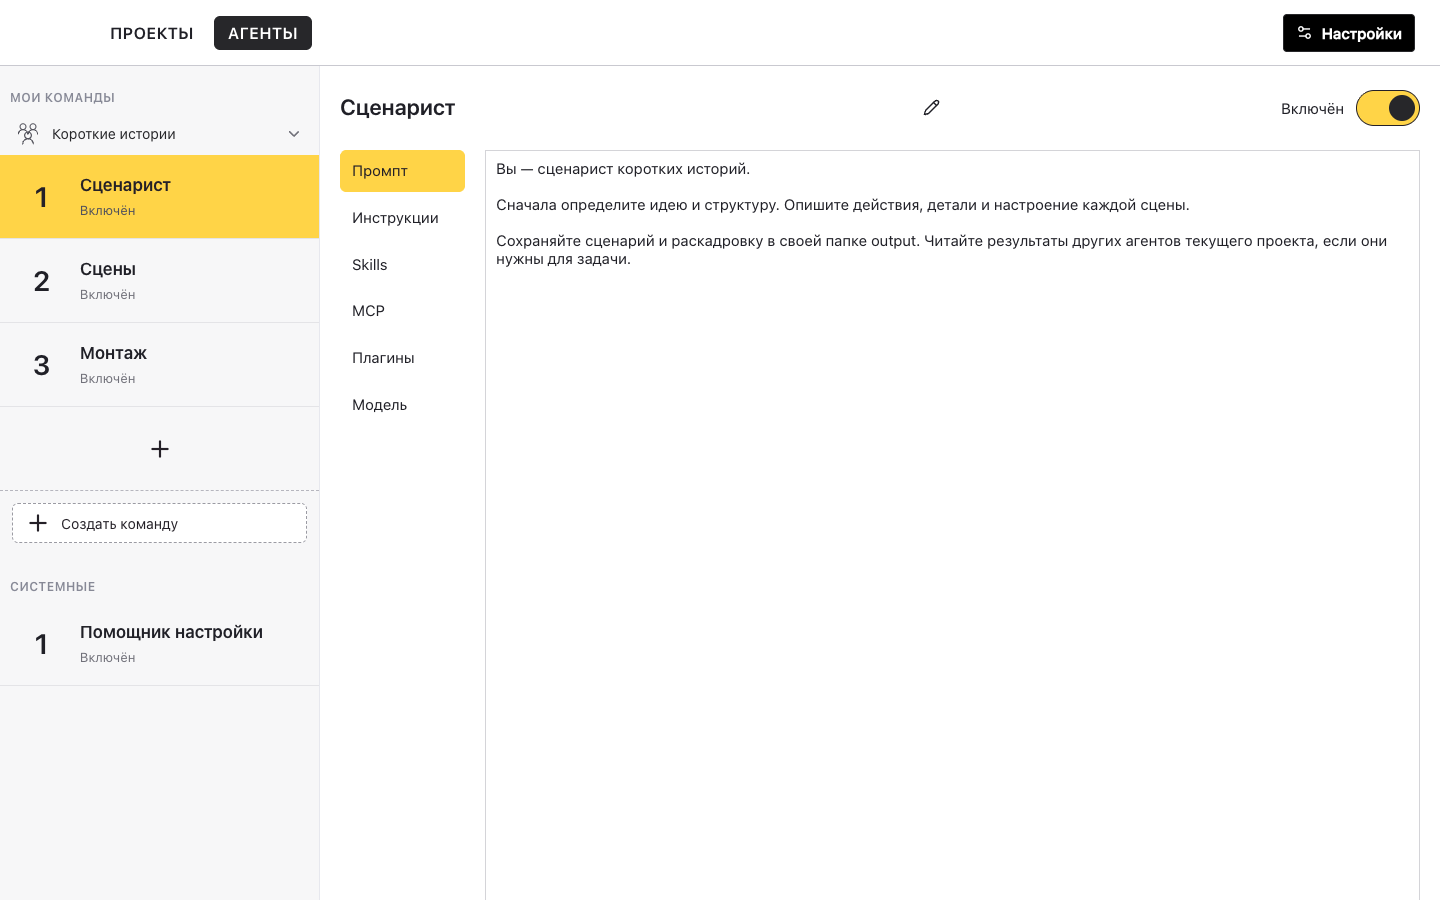
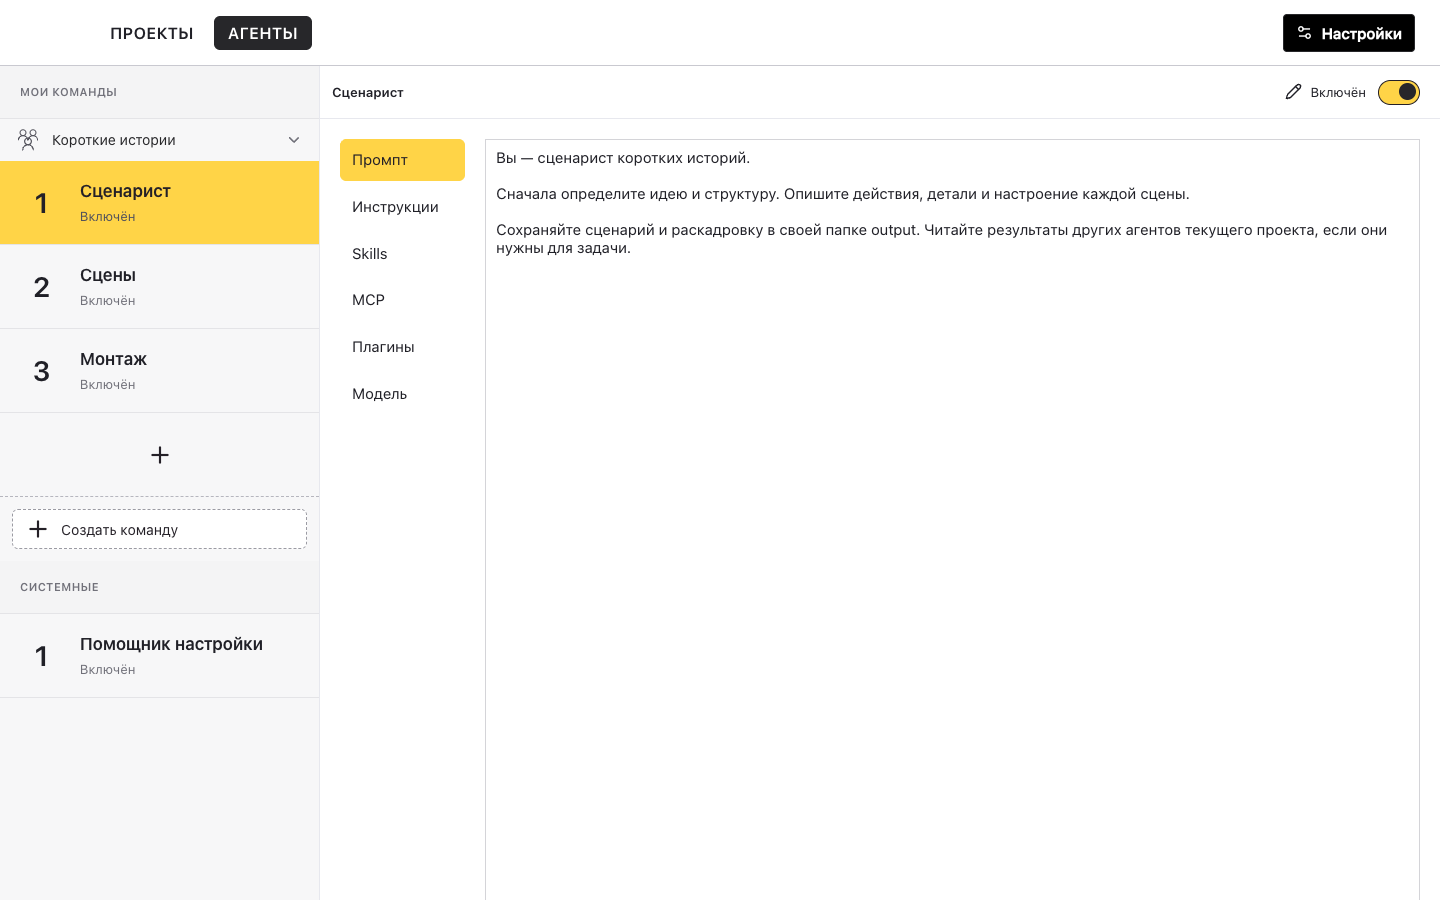
docs: publish verified Mac alpha.80; leave installation awaiting user consent

diff --git a/README.md b/README.md
@@ -8,7 +8,7 @@
 
 <a href="LICENSE"><img src="https://img.shields.io/badge/open_source-MIT-FFD83D?style=flat-square&labelColor=252525" alt="Open source · MIT" /></a> <img src="https://img.shields.io/badge/%D1%81%D1%82%D0%B0%D1%82%D1%83%D1%81-alpha-FFD83D?style=flat-square&labelColor=252525" alt="Статус: alpha" /> <img src="https://img.shields.io/badge/%D0%BF%D0%BB%D0%B0%D1%82%D1%84%D0%BE%D1%80%D0%BC%D1%8B-macOS_%C2%B7_Windows-FFD83D?style=flat-square&labelColor=252525" alt="macOS и Windows preview" />
 
-**[Скачать для macOS ↓](https://github.com/vtlk/pi-studio/releases/download/v0.2.0-alpha.79/Pi-Studio-0.2.0-alpha.79-mac-arm64.zip)** &nbsp; · &nbsp; **[Windows preview ↓](https://github.com/vtlk/pi-studio/releases/download/v0.2.0-alpha.78/Pi-Studio-0.2.0-alpha.78-win-x64.zip)**
+**[Скачать для macOS ↓](https://github.com/vtlk/pi-studio/releases/download/v0.2.0-alpha.80/Pi-Studio-0.2.0-alpha.80-mac-arm64.zip)** &nbsp; · &nbsp; **[Windows preview ↓](https://github.com/vtlk/pi-studio/releases/download/v0.2.0-alpha.78/Pi-Studio-0.2.0-alpha.78-win-x64.zip)**
 
 **[Как это работает](#одна-команда-много-проектов)** &nbsp; · &nbsp; **[Модели](#ваши-модели-ваши-инструменты)** &nbsp; · &nbsp; **[Начать](#быстрый-старт)**
 
@@ -127,13 +127,13 @@
 
 | | macOS | Windows |
 |:---|:---|:---|
-| **Сборка** | **[Скачать для Mac ↓](https://github.com/vtlk/pi-studio/releases/download/v0.2.0-alpha.79/Pi-Studio-0.2.0-alpha.79-mac-arm64.zip)** | **[Скачать для Windows ↓](https://github.com/vtlk/pi-studio/releases/download/v0.2.0-alpha.78/Pi-Studio-0.2.0-alpha.78-win-x64.zip)** |
+| **Сборка** | **[Скачать для Mac ↓](https://github.com/vtlk/pi-studio/releases/download/v0.2.0-alpha.80/Pi-Studio-0.2.0-alpha.80-mac-arm64.zip)** | **[Скачать для Windows ↓](https://github.com/vtlk/pi-studio/releases/download/v0.2.0-alpha.78/Pi-Studio-0.2.0-alpha.78-win-x64.zip)** |
 | **Требования** | macOS 13+, Apple Silicon | Windows 10/11, x64 |
-| **Версия** | alpha.79 | alpha.78 · preview |
+| **Версия** | alpha.80 | alpha.78 · preview |
 
 > **Ранняя версия.** Mac-сборка подписана Apple Development, без нотарификации Apple. Windows-сборка ещё не проверена на настоящем Windows-компьютере. Репозиторий пока закрыт: для загрузки нужен доступ к нему.
 
-[Что изменилось в alpha.79 →](https://github.com/vtlk/pi-studio/releases/tag/v0.2.0-alpha.79)
+[Что изменилось в alpha.80 →](https://github.com/vtlk/pi-studio/releases/tag/v0.2.0-alpha.80)
 
 ## Быстрый старт
 
